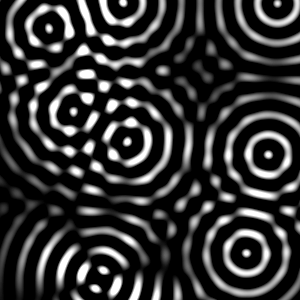
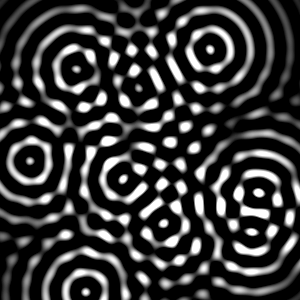
new example images

diff --git a/demo.py b/demo.py
@@ -4,18 +4,18 @@ import ripple_noise as rpn
 if __name__ == '__main__':
     # Configure the noise with a Ripple_Noise object.
     # Generate one or more images from a given configuration using the generate_image method.
-    noise1 = rpn.Ripple_Noise(size=500, density=12, scale=(0.5, 0.5), strength=1.5, smoothness=3)
-    noise1.generate_image('img_1')
+    noise1 = rpn.Ripple_Noise(size=500, density=10, scale=(0.5, 0.5), strength=1.5, smoothness=3)
+    noise1.generate_image('examples/img_1')
 
     noise_2 = rpn.Ripple_Noise(size=300, density=3)
-    noise_2.generate_image('img_2')
-    noise_2.generate_image('img_3')
+    noise_2.generate_image('examples/img_2')
+    noise_2.generate_image('examples/img_3')
 
     noise_3 = rpn.Ripple_Noise(300, 8, (0.1, 0.5), 3, 4)
-    noise_3.generate_image('img4')
+    noise_3.generate_image('examples/img_4')
 
     noise_4 = rpn.Ripple_Noise(size=500, density=15, scale=(0.3, 0.3))
-    noise_4.generate_image('img_5')
+    noise_4.generate_image('examples/img_5')
 
     noise_5 = rpn.Ripple_Noise(size=1000, density=2, scale=(0.03, 0.03), strength=1)
-    noise_5.generate_image('img_6')
+    noise_5.generate_image('examples/img_6')
